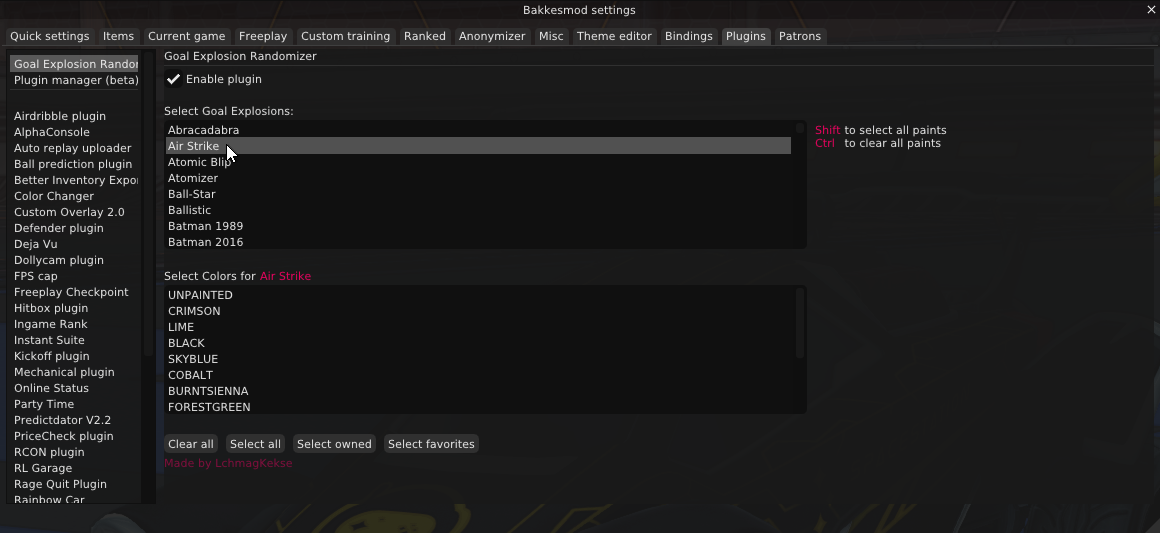
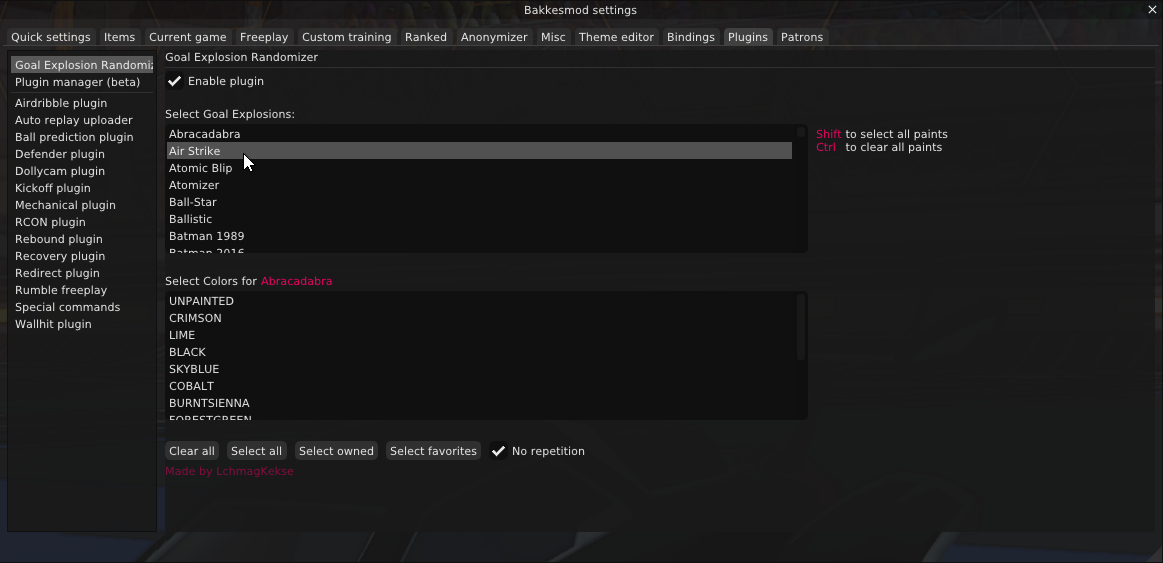
image

diff --git a/GoalExplosionRandomizer/GoalExplosionRandomizerGUI.cpp b/GoalExplosionRandomizer/GoalExplosionRandomizerGUI.cpp
@@ -86,7 +86,7 @@ void GoalExplosionRandomizer::RenderSettings() {
 	CVarWrapper repetition = cvarManager->getCvar("NoRepetition");
 	if (!repetition) return;
 	bool repetitionEnabled = repetition.getBoolValue();
-	if (ImGui::Checkbox("No Repetition", &repetitionEnabled))
+	if (ImGui::Checkbox("No repetition", &repetitionEnabled))
 		repetition.setValue(repetitionEnabled);
 	if (ImGui::IsItemHovered())
 		ImGui::SetTooltip("Disables that the same Goal Explosion gets played twice in a row");

diff --git a/GoalExplosionRandomizer/version.h b/GoalExplosionRandomizer/version.h
@@ -2,7 +2,7 @@
 #define VERSION_MAJOR 4
 #define VERSION_MINOR 2
 #define VERSION_PATCH 0
-#define VERSION_BUILD 15
+#define VERSION_BUILD 16
 
 #define stringify(a) stringify_(a)
 #define stringify_(a) #a
